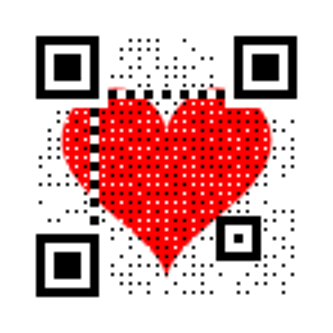
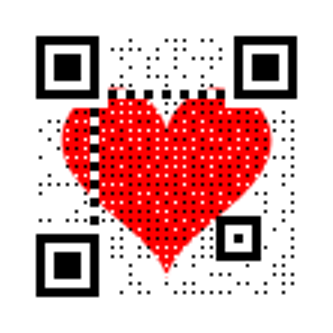
Add comments in files

diff --git a/Глава 4/1.py b/Глава 4/1.py
@@ -1,0 +1,63 @@
+from PIL import Image, ImageDraw  # Импортируем необходимые модули для работы с изображениями.
+from amzqr import amzqr  # Импортируем библиотеку для создания QR-кодов.
+import math  # Импортируем библиотеку для выполнения математических расчетов.
+
+
+# Функция для рисования сердца
+def draw_heart(draw, x_center, y_center, size, color):
+    points = []  # Инициализируем список для хранения координат точек сердца
+    # Цикл для создания точек по контуру сердца
+    for angle in range(360):  # Угол меняется от 0 до 359 градусов для создания замкнутого контура
+        theta = math.radians(angle)  # Преобразуем угол из градусов в радианы
+        # Вычисляем координаты точки на контуре сердца
+        x = x_center + size * 16 * math.sin(theta) ** 3
+        y = y_center - size * (
+                13 * math.cos(theta) - 5 * math.cos(2 * theta) - 2 * math.cos(3 * theta) - math.cos(4 * theta))
+        points.append((x, y))  # Добавляем точку в список координат
+    # Рисуем контур сердца
+    draw.polygon(points, fill=color)
+
+
+# Пути для сохранения изображения сердца и QR-кода
+data_save = "img/heart.png"  # Ссылка или текст, который будет закодирован в QR-код
+data_qr = "qr/heart_qr.png"
+url = "https://ege-drive.ru"
+
+# Параметры изображения
+image_width = 400  # Ширина изображения в пикселях.
+image_height = 400  # Высота изображения в пикселях.
+background_color = "white"  # Цвет фона изображения.
+heart_color = "red"  # Цвет звезды.
+heart_size = 10
+mode = "RGB"
+
+# Задаем центр и размер сердца
+x_center, y_center = 200, 200
+
+# Основная часть программы
+# Создаем изображение размером 400x400 с белым фоном
+image_size = (image_width, image_height)
+image = Image.new(mode, image_size, background_color)
+draw = ImageDraw.Draw(image)
+
+# Вызываем функцию для рисования сердца
+draw_heart(draw, x_center, y_center, heart_size, heart_color)
+
+# Сохранение изображения
+image.save(data_save)  # Сохраняем изображение звезды по указанному пути.
+
+# Данные для кодирования в QR-код
+data = url  # URL или текст, который будет закодирован в QR-код.
+
+# Настройка QR-кода
+amzqr.run(
+    words=data,  # Данные для кодирования.
+    version=1,  # Версия QR-кода (1-40), 1 - минимальный размер.
+    level='H',  # Уровень коррекции ошибок ('L', 'M', 'Q', 'H').
+    picture=data_save,  # Фоновое изображение, в данном случае — звезда.
+    colorized=True,  # Разрешить цветные QR-коды.
+    contrast=1.0,  # Контрастность фона QR-кода.
+    brightness=1.0,  # Яркость QR-кода.
+    save_name=data_qr,  # Имя файла для сохранения QR-кода.
+    save_dir="."  # Путь к папке для сохранения QR-кода.
+)

diff --git a/Глава 4/Листинг 4.2.py b/Глава 4/Листинг 4.2.py
@@ -1,19 +1,36 @@
-from amzqr import amzqr
+from PIL import Image, ImageDraw
+import math
 
-# Данные для кодирования
-data_save = "img/heart.pngg"  # Ссылка или текст, который будет закодирован в QR-код
-data_qr = "qr/heart_qr.png"
-url = "https://ege-drive.ru"
+# Функция для рисования сердца
+def draw_heart(draw, x_center, y_center, size, color):
+    points = []  # Инициализируем список для хранения координат точек сердца
 
-# Настройка QR-кода
-amzqr.run(
-    words=url,  # Данные для кодирования
-    version=1,  # Версия QR-кода (1-40), 1 - минимальный размер
-    level='H',  # Уровень коррекции ошибок ('L', 'M', 'Q', 'H')
-    picture=data_save,  # Фоновое изображение в форме сердца
-    colorized=True,  # Разрешить цветные QR-коды
-    contrast=1.0,  # Контрастность фона
-    brightness=1.0,  # Яркость QR-кода
-    save_name=data_qr,  # Имя файла для сохранения
-    save_dir="."  # Путь к папке сохранения
-)
+    # Цикл для создания точек по контуру сердца
+    for angle in range(360):  # Угол меняется от 0 до 359 градусов для создания замкнутого контура
+        theta = math.radians(angle)  # Преобразуем угол из градусов в радианы
+
+        # Вычисляем координаты точки на контуре сердца
+        x = x_center + size * 16 * math.sin(theta) ** 3
+        y = y_center - size * (13 * math.cos(theta) - 5 * math.cos(2 * theta) - 2 * math.cos(3 * theta) - math.cos(4 * theta))
+        points.append((x, y))  # Добавляем точку в список координат
+
+    # Рисуем контур сердца
+    draw.polygon(points, fill=color)
+
+# Основная часть программы
+# Создаем изображение размером 400x400 с белым фоном
+image_size = (400, 400)
+image = Image.new("RGB", image_size, "white")
+draw = ImageDraw.Draw(image)
+
+# Задаем центр и размер сердца
+x_center, y_center = 200, 200
+size = 10
+color = "red"
+
+# Вызываем функцию для рисования сердца
+draw_heart(draw, x_center, y_center, size, color)
+
+# Сохраняем и показываем изображение
+image.save("heart.png")
+
